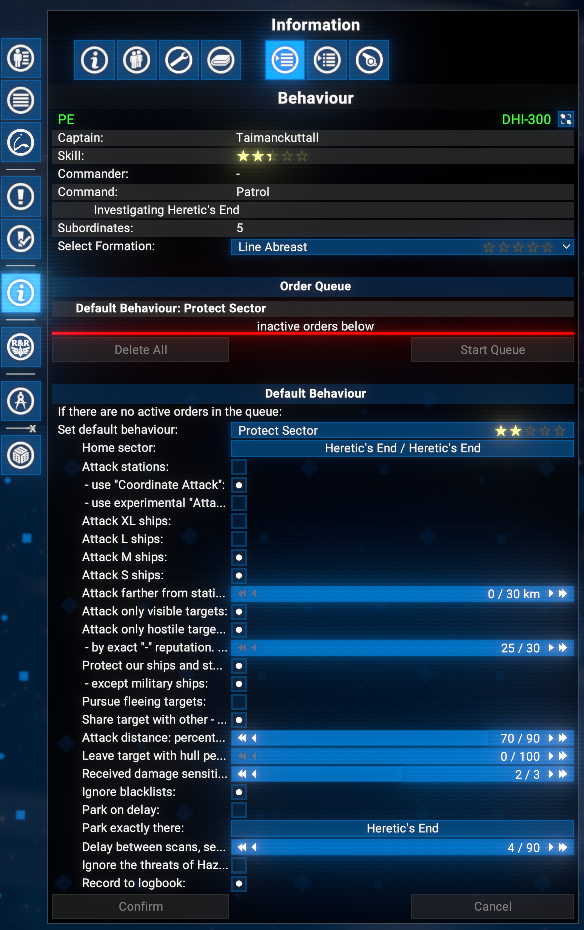
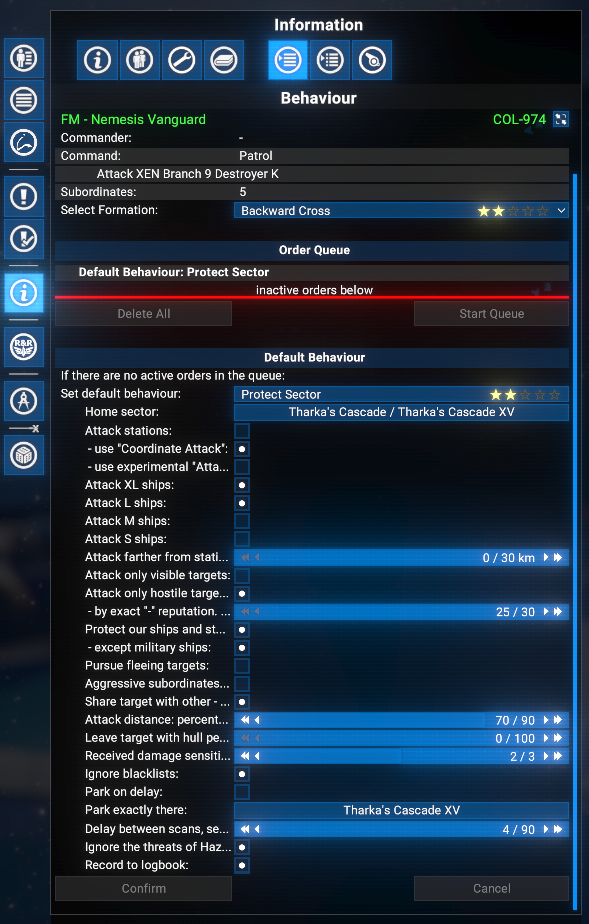
feat(lib.protect.sector): update version to 116 and add aggressive subordinates param
aiscripts/lib.protect.sector.xml: +added aggressiveSubordinates parameter (default false) to enhance ship behavior control.
  aiscripts/order.fight.protect.sector.xml: update version to 116; +added aggressiveSubordinates parameter to improve combat strategy.

diff --git a/CHANGELOG.md b/CHANGELOG.md
@@ -1,5 +1,13 @@
 # Changelog
 
+## [1.16] - 2026-03-27
+
+- Added
+  - New `Aggressive subordinates` option to make subordinates more aggressive in attacking targets. It was introduced in version `1.13` as the default behavior; with this update, it becomes optional and is disabled by default.
+- Fixed
+  - Fixed a bug with `Aggressive subordinates` where subordinates were forced to attack targets outside the sector where the leader is.
+  - In some cases the `Park exactly there` option was assumed by the game engine as a null value, which prevented the `Behavior tab` from being opened on order failure.
+
 ## [1.15] - 2026-03-26
 
 - Added

diff --git a/README.md b/README.md
@@ -127,6 +127,11 @@ If enabled, the ship will not protect the military ships. It will not attack the
 
 If enabled, the ship will pursue the target, which is trying to flee after is being attacked.
 
+### Aggressive subordinates
+
+`Disabled` by default.
+If enabled, the subordinates will be more aggressive in attacking the targets. It will force them to attack more and more.
+
 ### Share target with other
 
 `Enabled` by default.
